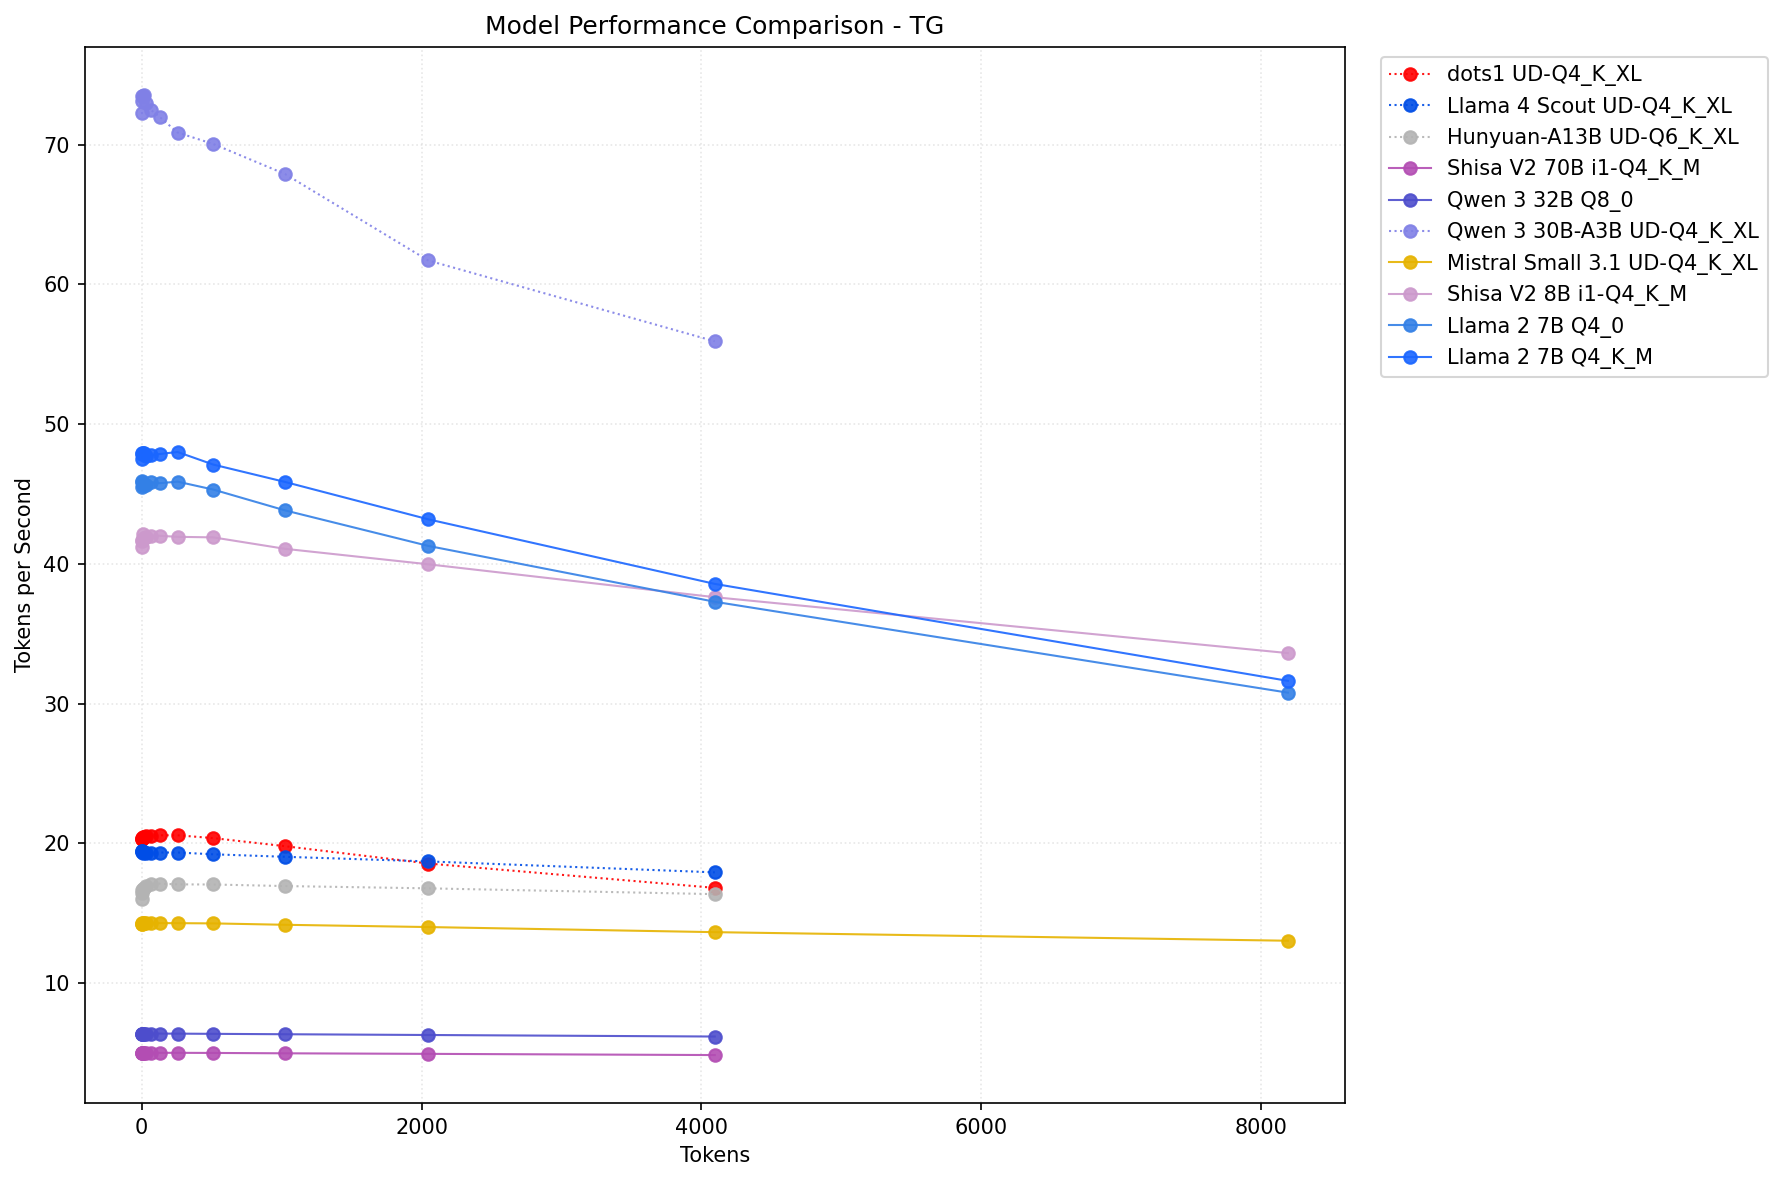
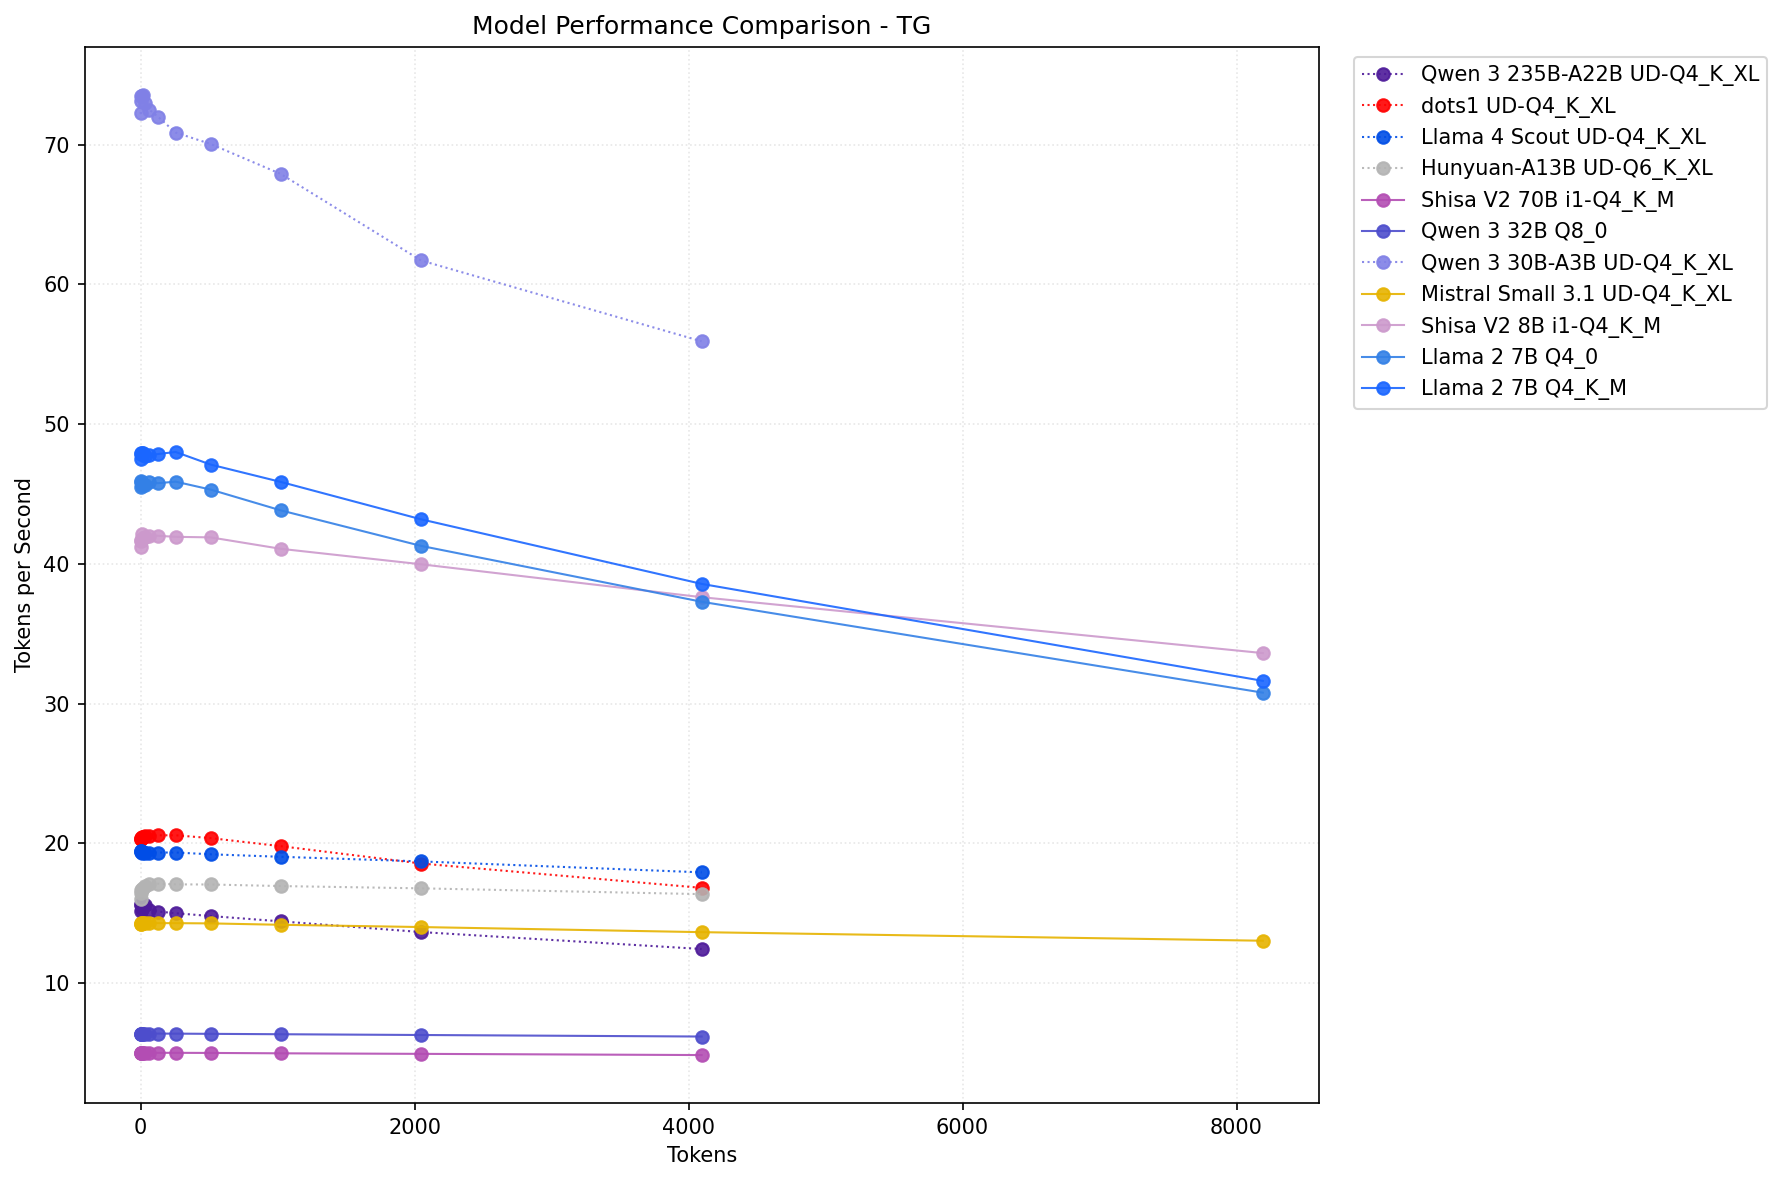
added Qwen 3 235B to summary

diff --git a/llm-bench/create-summary-readme.py b/llm-bench/create-summary-readme.py
@@ -88,6 +88,19 @@ MODELS = {
             "ls": "-",
         },
     },
+    "Qwen3-235B-A22B-Instruct-2507-UD-Q3_K_XL": {
+        "name": "Qwen 3 235B-A22B UD-Q4_K_XL",
+        "arch": "Qwen 3 MoE",
+        "weights": 235,
+        "active": 22,
+        "pp": "hip_hipblaslt",
+        "tg": "vulkan_fa",
+        "line": {
+            "color": (0.3, 0.1, 0.6, 0.9),
+            "lw": 1,
+            "ls": ":",
+        },
+    },
     "llama-2-7b.Q4_0": {
         "name": "Llama 2 7B Q4_0",
         "arch": "Llama 2",
